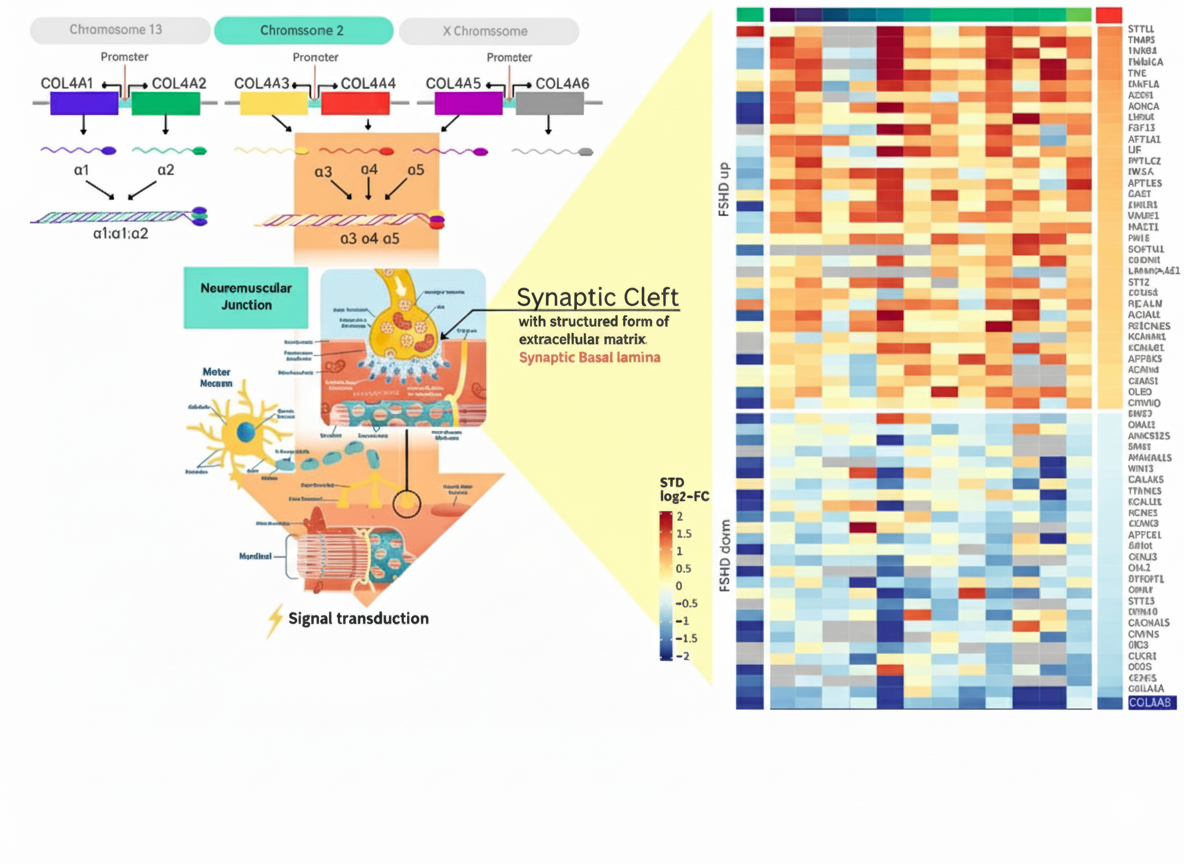
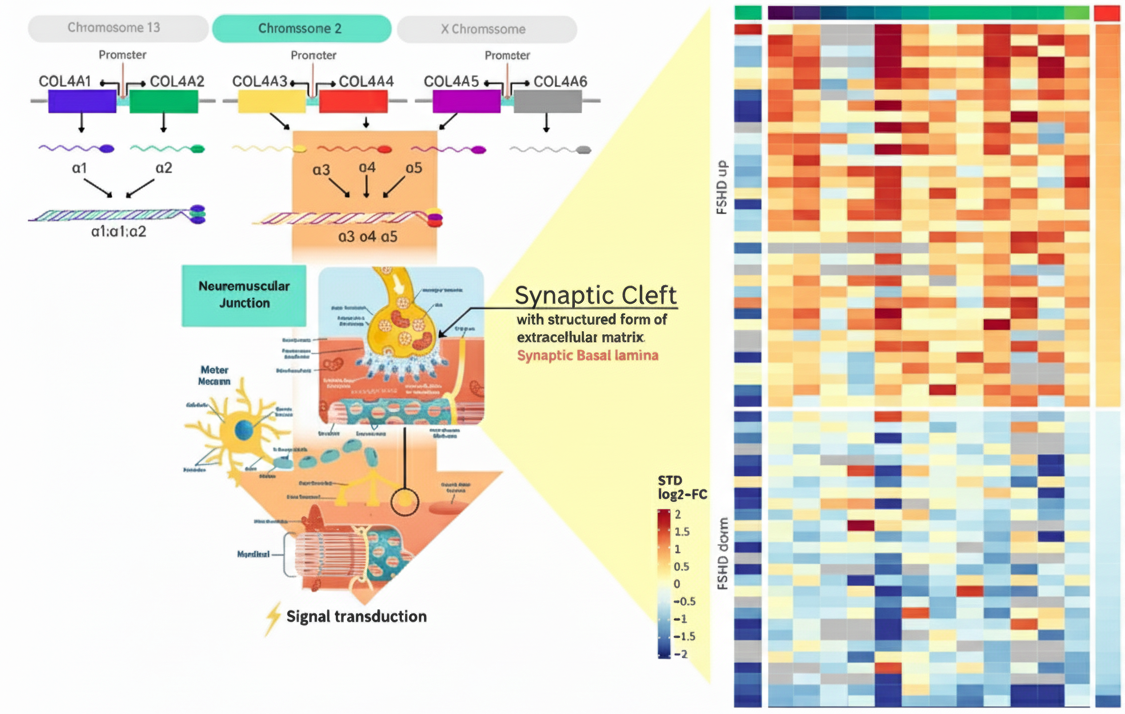
cropping img; changes in home grid carousel

diff --git a/home.html b/home.html
@@ -108,33 +108,54 @@
             <p class="decrypted decrypted-large" data-text="Discovery" data-duration="2000"></p>
         </div>
         <div class="home-hero-grid">
-            <div class="fade-in-section carousel-container gallery__item--1" data-animation-class="is-visible"
-                data-delay="0.8s" data-interval="5500" data-animation="fade">
+            <div class="fade-in-section gallery__item--1 home-carousel carousel-container"
+                data-animation-class="is-visible" data-delay="0.8s" data-interval="5500" data-animation="fade">
                 <figure class="carousel__item services-item pipelines-carousel active">
-                    <img src="img/variant_validation.png" alt="Gallery image 1" class="carousel__img">
-                </figure>
-                <!-- <figure class="carousel__item services-item pipelines-carousel">
-                    <img src="img/amr_heatmap.png" alt="Gallery image 1" class="gallery__img">
+                    <img src="img/variant_validation.png" class="carousel__img">
                 </figure>
                 <figure class="carousel__item services-item pipelines-carousel">
-                    <img src="img/manage_schemes.png" alt="Gallery image 1" class="gallery__img">
+                    <img src="img/amr_heatmap.png" class="carousel__img">
                 </figure>
                 <figure class="carousel__item services-item pipelines-carousel">
-                    <img src="img/loci_info.png" alt="Gallery image 1" class="gallery__img">
-                </figure> -->
+                    <img src="img/manage_schemes.png" class="carousel__img">
+                </figure>
+                <figure class="carousel__item services-item pipelines-carousel">
+                    <img src="img/loci_info.png" class="carousel__img">
+                </figure>
+                <figure class="carousel__item services-item pipelines-carousel">
+                    <img src="img/fshd_analysis_small.png" class="carousel__img">
+                </figure>
             </div>
-            <!-- <figure class="gallery__item gallery__item--1">
-                <img src="img/variant_validation.png" alt="Gallery image 1" class="gallery__img">
-            </figure> -->
-            <!--<figure class="round-box glass gallery__item gallery__item--2">
-                <img src="img/R_logo.png" alt="Gallery image 2" class="gallery__img">
-            </figure> -->
-            <figure class="round-box white gallery__item gallery__item--3">
-                <img src="img/logo_name.svg" alt="Gallery image 3" class="gallery__img">
-            </figure>
-            <figure class="gallery__item gallery__item--4">
-                <img src="img/bash.png" alt="Gallery image 4" class="gallery__img">
-            </figure>
+            <div class="fade-in-section gallery__item--3 home-carousel carousel-container"
+                data-animation-class="is-visible" data-delay="0.6s" data-interval="3500" data-animation="slide">
+                <figure class="carousel__item services-item pipelines-carousel active">
+                    <img src="img/logo_name.svg" class="carousel__img">
+                </figure>
+                <figure class="carousel__item services-item pipelines-carousel">
+                    <img src="img/hex-LFApp.png" class="carousel__img">
+                </figure>
+                <figure class="carousel__item services-item pipelines-carousel">
+                    <img src="img/R_logo.png" class="carousel__img">
+                </figure>
+                <figure class="carousel__item services-item pipelines-carousel">
+                    <img src="img/hex-MADApp.png" class="carousel__img">
+                </figure>
+                <figure class="carousel__item services-item pipelines-carousel">
+                    <img src="img/dark_white_green_wname.svg" class="carousel__img">
+                </figure>
+                <figure class="carousel__item services-item pipelines-carousel">
+                    <img src="img/Nextflow_logo.png" class="carousel__img">
+                </figure>
+                <figure class="carousel__item services-item pipelines-carousel">
+                    <img src="img/hex-MKdescr.png" class="carousel__img">
+                </figure>
+            </div>
+            <div class="fade-in-section gallery__item--4 home-carousel carousel-container"
+                data-animation-class="is-visible" data-delay="0.6s" data-interval="5500" data-animation="fade">
+                <figure class="carousel__item services-item pipelines-carousel active">
+                    <img src="img/Liora.png" alt="Gallery image 4" class="gallery__img">
+                </figure>
+            </div>
         </div>
         <img id="genomeTwo" class="genome-pic genome-hero" src="img/genome.png" alt="">
     </section>

diff --git a/styles.css b/styles.css
@@ -945,7 +945,7 @@ h6 {
 
 .home-hero-grid {
   display: grid;
-  grid-template-columns: 1fr 1fr 2fr 1fr 1fr;
+  grid-template-columns: 1fr 1fr 1fr 1fr;
   grid-template-rows: 2fr 1fr;
   width: 35vw;
   grid-gap: 2rem;
@@ -1017,6 +1017,12 @@ h6 {
   height: 100%;
 }
 
+.home-carousel {
+  height: 100%;
+  animation-delay: 0.8s;
+  width: 100% !important;
+}
+
 .gallery__img,
 .carousel__img {
   object-fit: cover;
@@ -1067,24 +1073,17 @@ h6 {
 }
 
 .gallery__item--1 {
-  grid-column: 1 / span 5;
+  grid-column: 1 / span 4;
   grid-row: 1 / span 1;
-}
-
-.gallery__item--2 {
-  grid-column: 4 / span 2;
-  grid-row: 1 / span 1;
-  padding: 2.5em;
 }
 
 .gallery__item--3 {
   grid-column: 1 / span 2;
   grid-row: 2 / span 1;
-  padding: 1em;
 }
 
 .gallery__item--4 {
-  grid-column: 3 / span 3;
+  grid-column: 3 / span 2;
   grid-row: 2 / span 1;
 }
 
